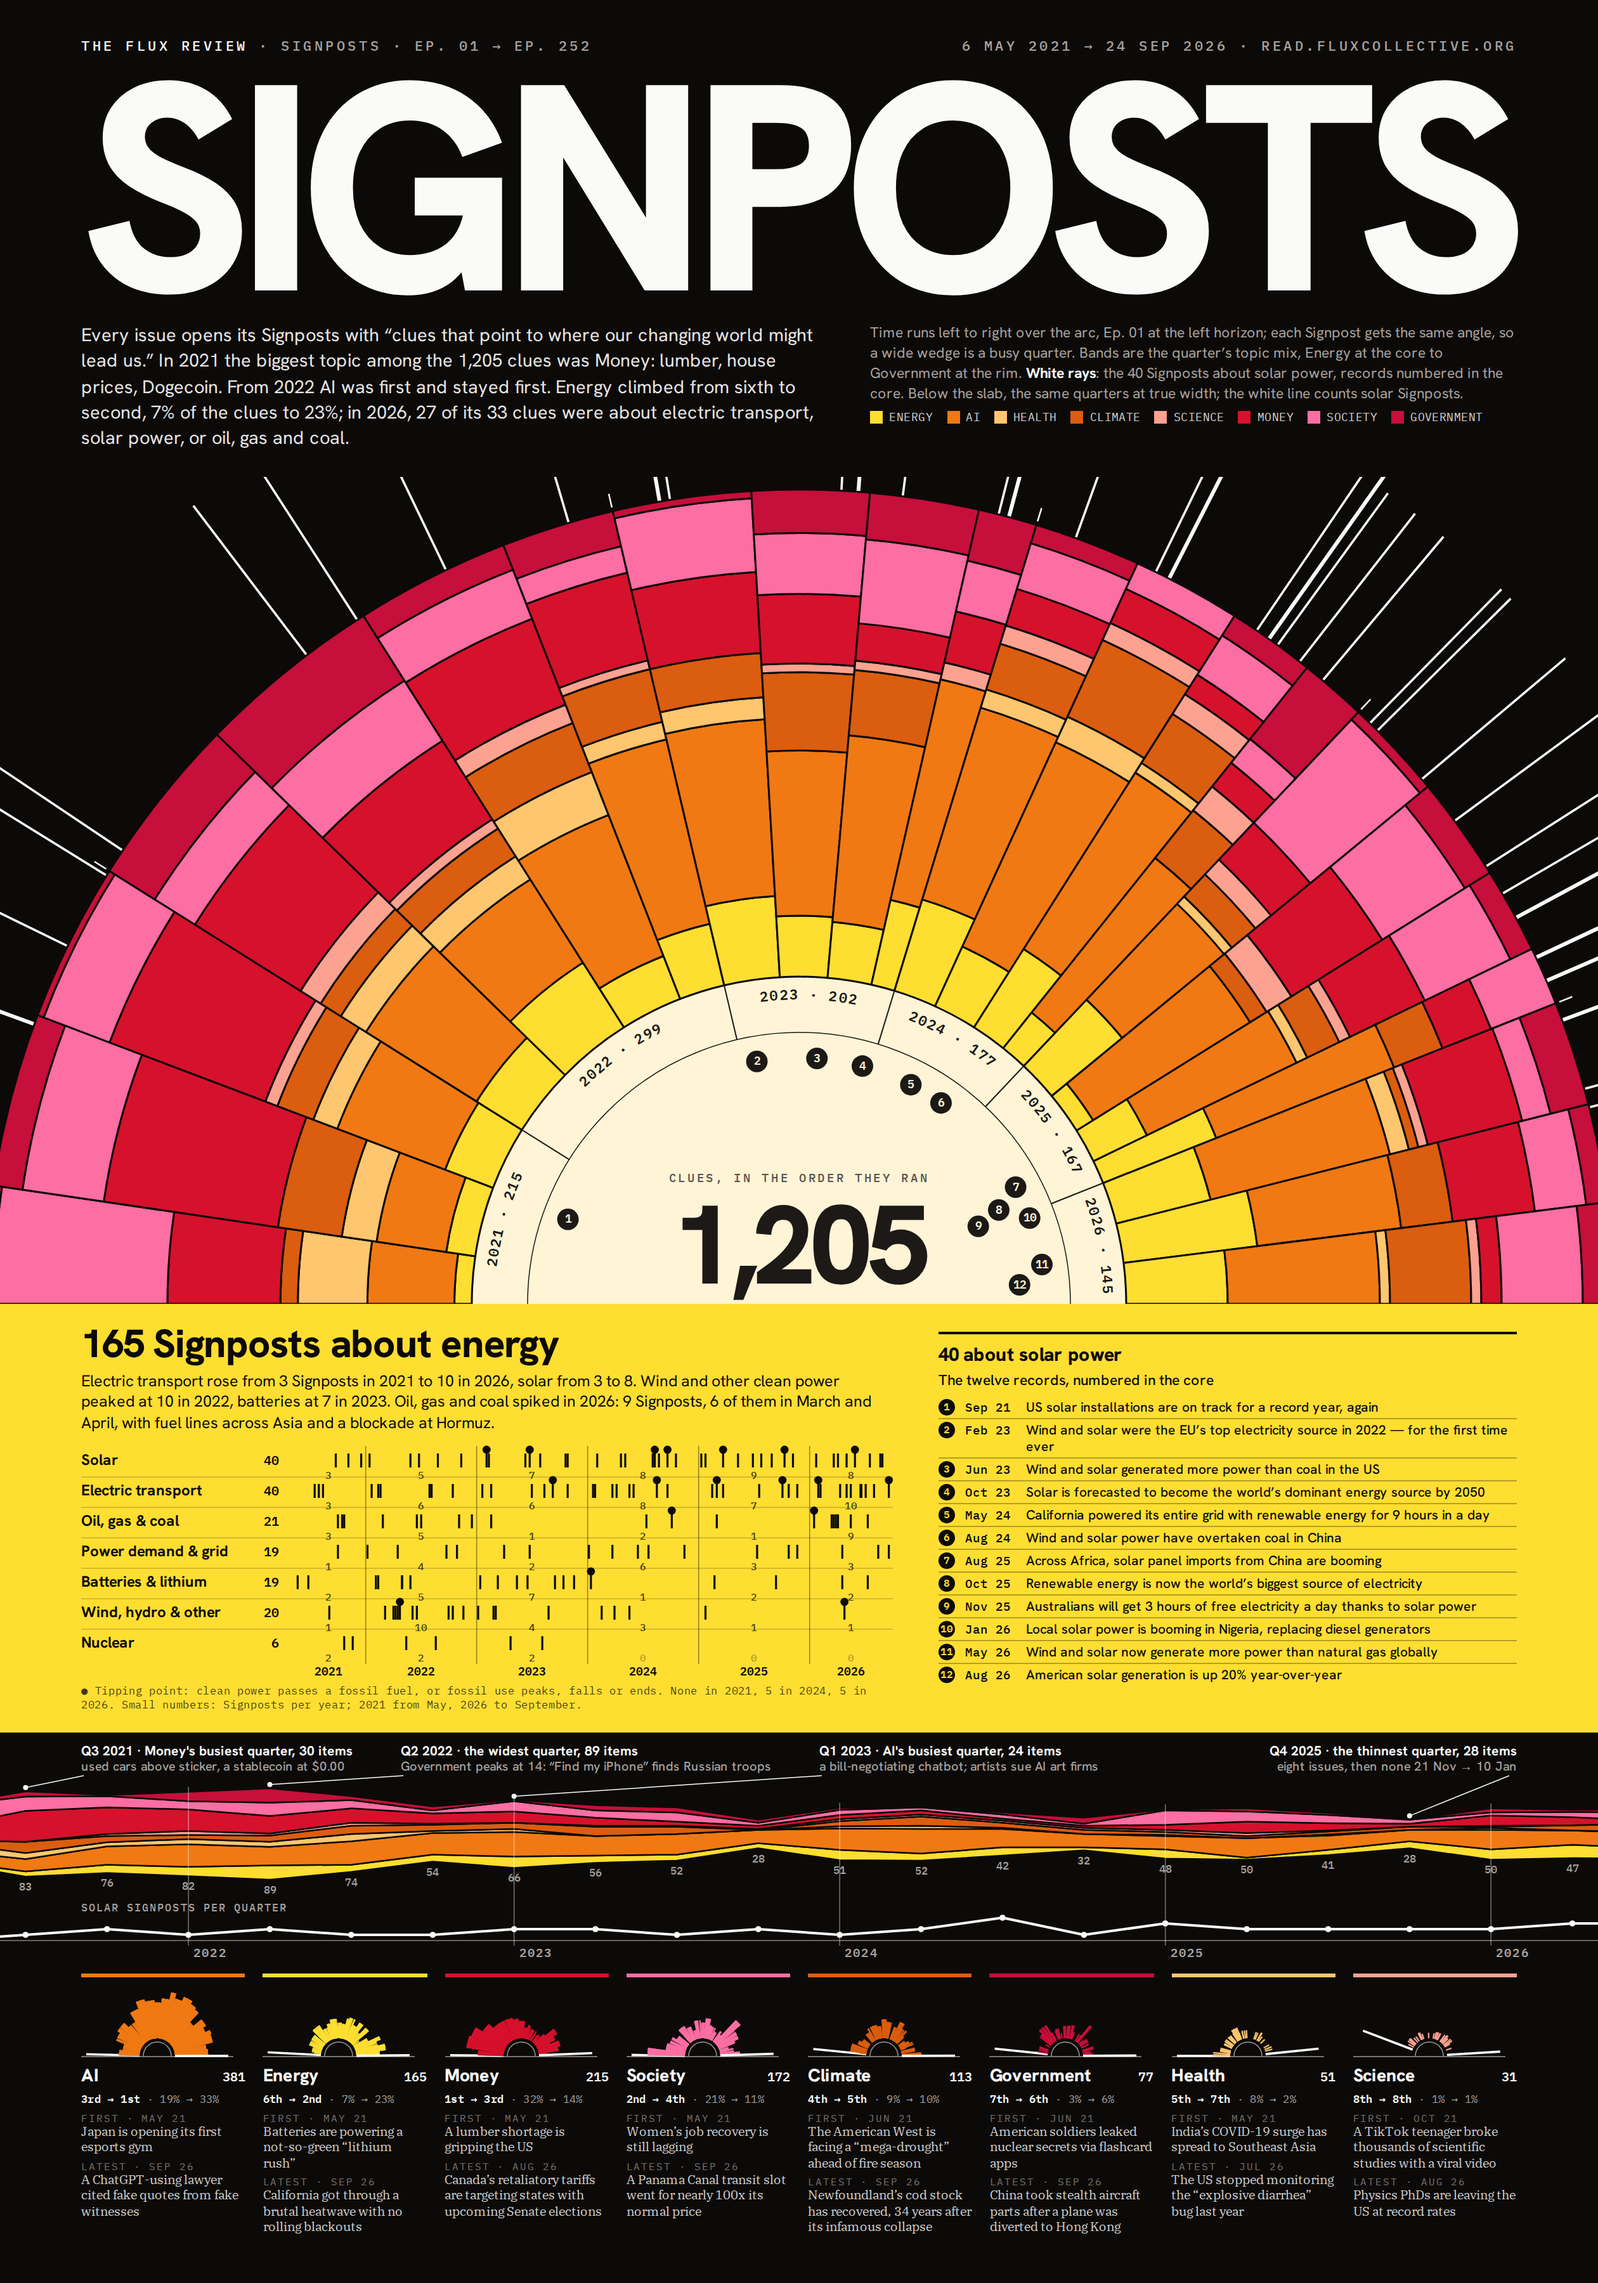
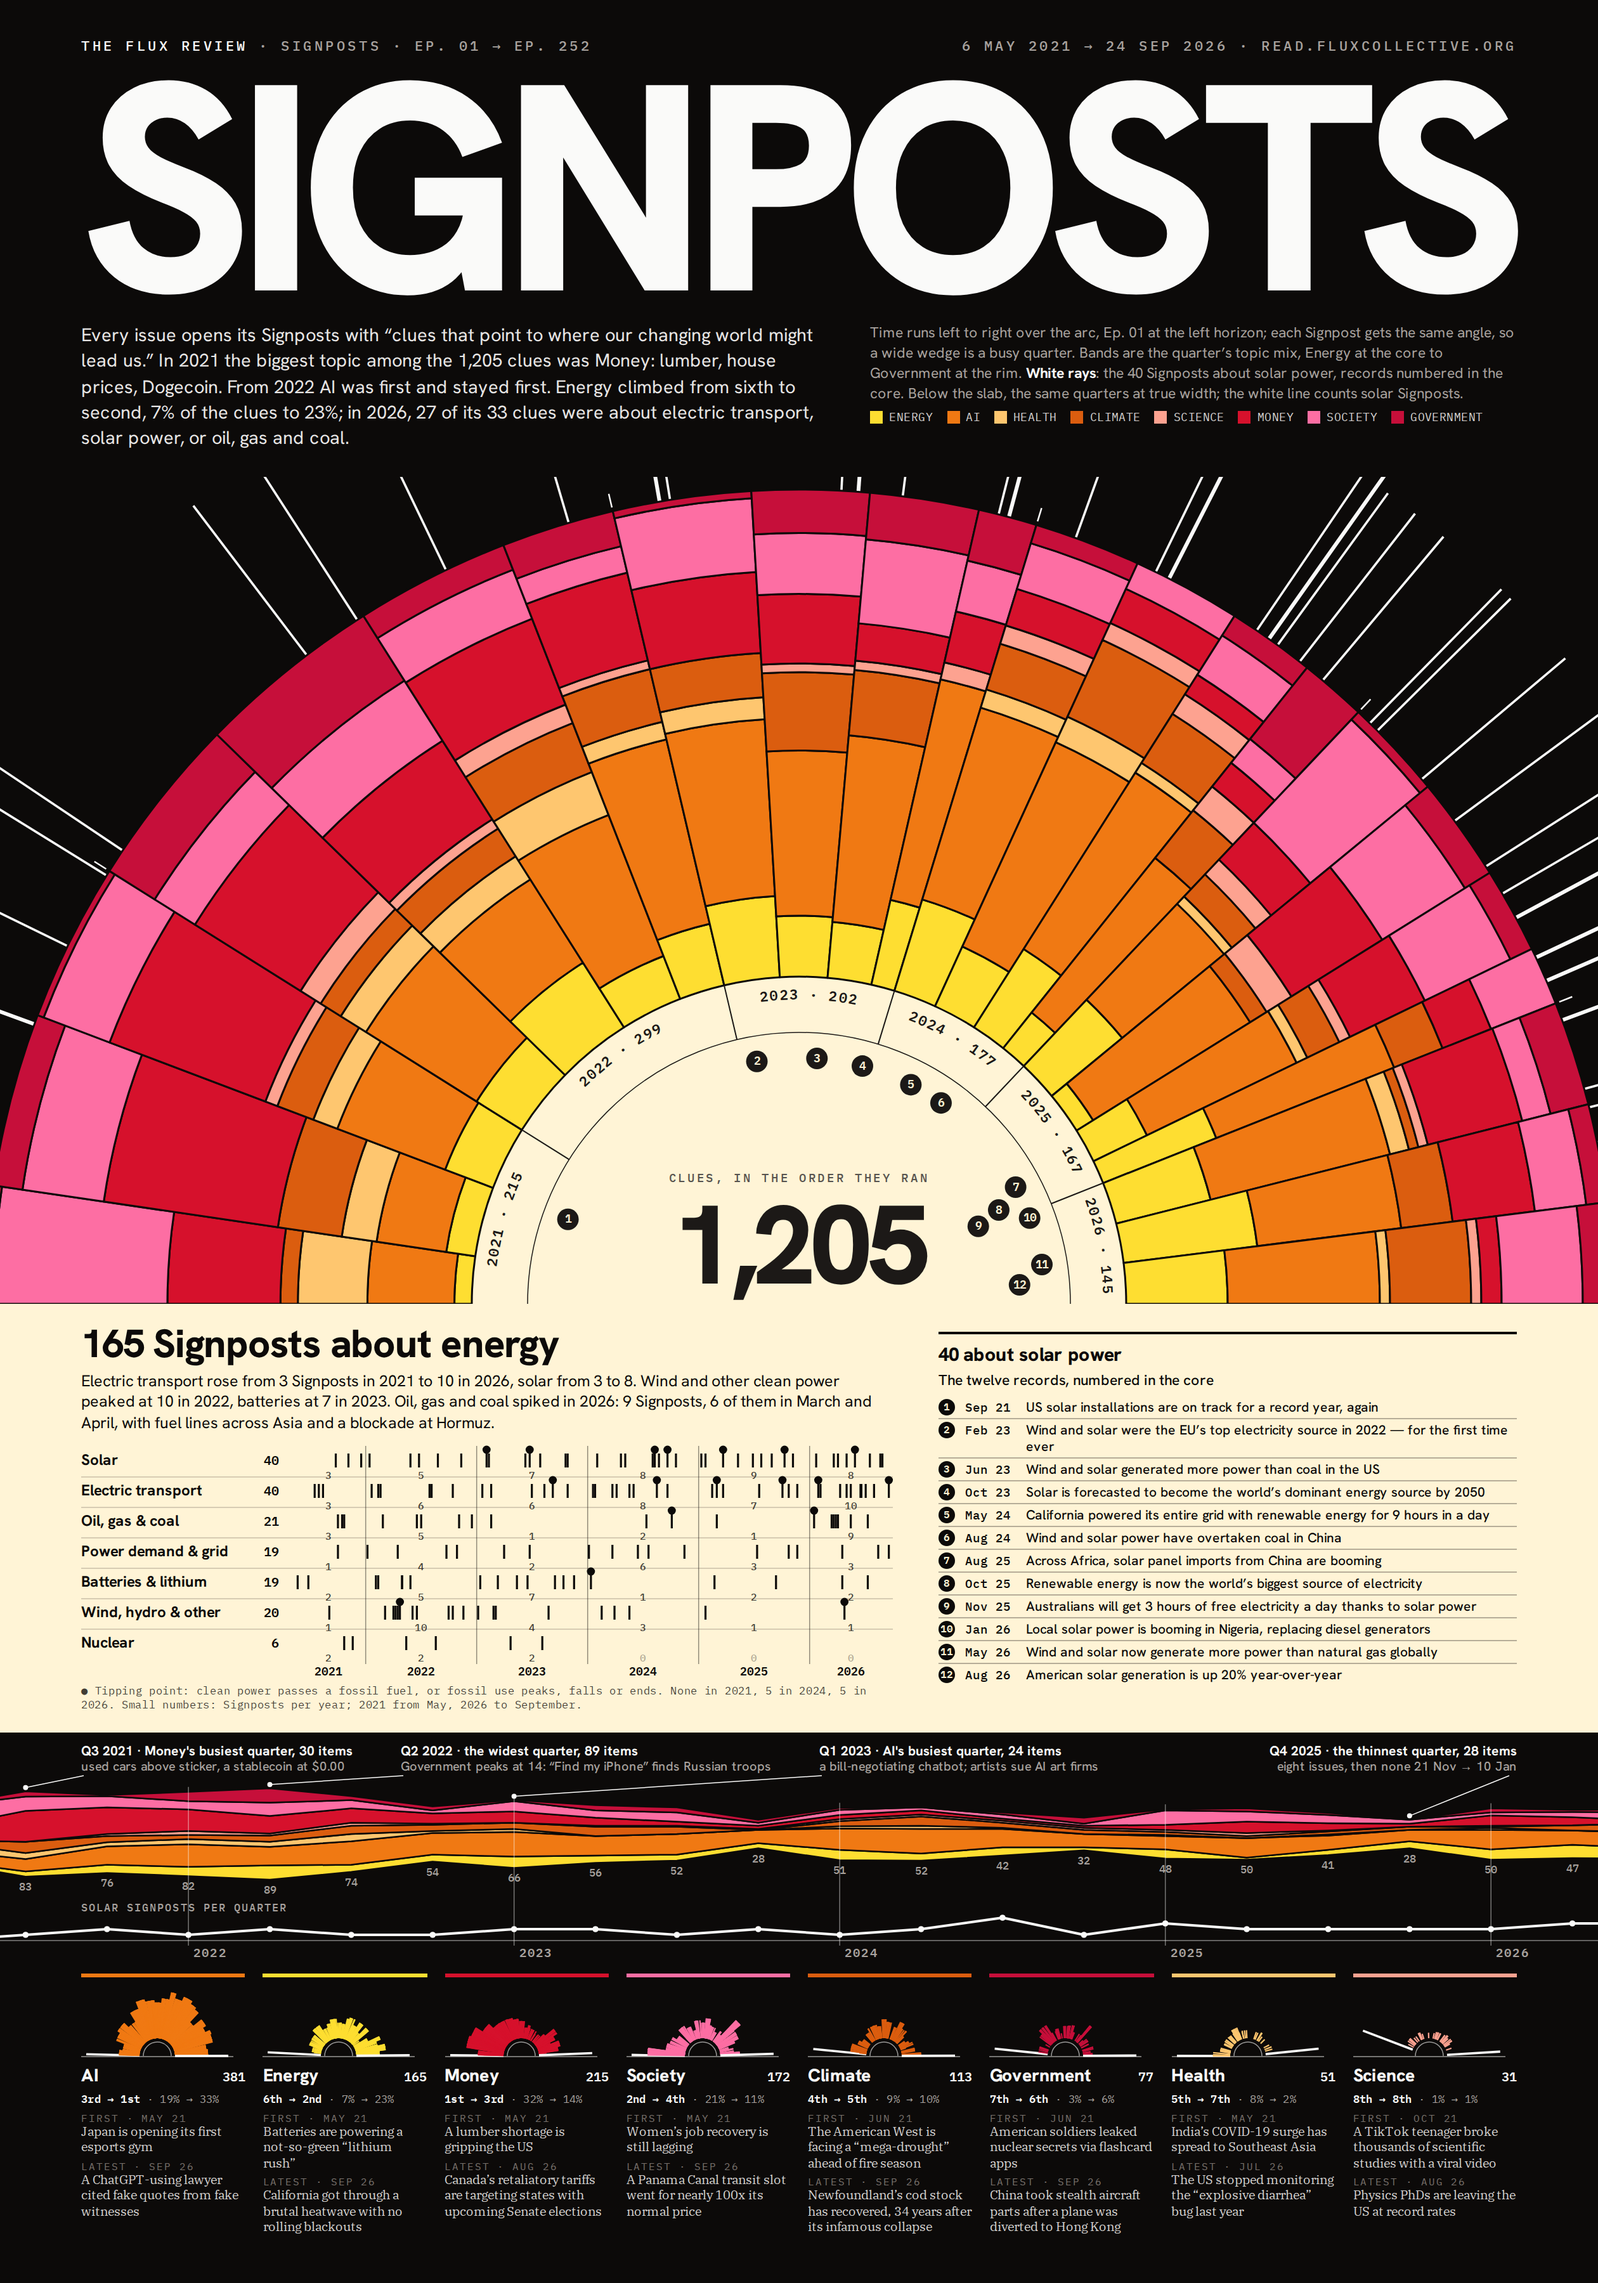
Signposts wheel: energy band in the core's pale colour
The 165 band takes the core's #fff4d6 instead of the Energy yellow, so
the sun's core and the ground below it read as one light. Record
numbers in the solar list switch to the same pale ink.

Claude-Session: https://claude.ai/code/session_016qoP1bbpv8VwZM3p1mXFmG

Changed region(s): [[0.0, 0.56, 1.0, 0.7778]]

diff --git a/posters/flux-signposts.html b/posters/flux-signposts.html
@@ -8,19 +8,20 @@
 <link href="https://fonts.googleapis.com/css2?family=Hanken+Grotesk:wght@400;500;700;800&family=IBM+Plex+Mono:wght@400;500;600&family=IBM+Plex+Serif:ital,wght@0,400;1,400&display=swap" rel="stylesheet">
 <!--
   Weltformat F4 (89.5 × 128 cm), rendered 1260 × 1800 CSS px.
-  Five full-width rows: the title; the sun; the energy slab; the Minard
+  Five full-width rows: the title; the sun; the energy band; the Minard
   strip; the small multiples.
   Lineage: Müller-Brockmann's concentric forms, used as the subject. The
-  1,205 Signposts are a sun rising off the yellow slab, edge to edge: time
+  1,205 Signposts are a sun rising off the pale energy band, edge to edge: time
   runs left to right over the arc, Ep. 01 at the left horizon, Ep. 252 at
   the right. The core is the sun's pale disc. The 40 Signposts about solar
-  power are long white rays into a black sky. The slab breaks the 165
+  power are long white rays into a black sky. The band, in the core's
+  pale colour so core and ground read as one light, breaks the 165
   Energy Signposts into seven kinds on a calendar axis. Below it the same
   22 quarters run at true width (after Minard's flow).
 
   Drama carriers: one dominant anchor (the sun, a third of the sheet,
   cut by both side edges); a title set to the full measure; hard
-  figure/ground (black sky, yellow slab, pale core); a graphic system
+  figure/ground (black sky against the pale core and band); a graphic system
   (rays and ticks); microtype (dial years, counts, dates).
 
   Colour has one job: topic, set roseate from the yellow hub to the
@@ -28,7 +29,7 @@
   Government). Validated on the black field in that stacking order:
   adjacent normal-vision ΔE ≥ 17.8, protan/deutan ΔE ≥ 15.5, chroma
   ≥ 0.10, every ink ≥ 3:1. Lightness steps up and down band to band so
-  neighbours separate within one warm family. The slab is the Energy ink.
+  neighbours separate within one warm family.
 
   Source ledger: every Signpost in The FLUX Review, Ep. 01 (6 May 2021) to
   Ep. 252 (24 Sep 2026), 1,205 items, each read and given one of eight
@@ -46,7 +47,7 @@
     --stone-800: #292524;
     --stone-900: #1c1917;
     --stone-950: #0c0a09;
-    --gold: #fede31;
+    --slab: #fff4d6;   /* the core's pale disc, carried into the energy band */
     --sans:  'Hanken Grotesk', 'Helvetica Neue', Arial, system-ui, sans-serif;
     --mono:  'IBM Plex Mono', ui-monospace, monospace;
     --serif: 'IBM Plex Serif', Georgia, serif;
@@ -72,8 +73,8 @@
   .key span { display: inline-flex; align-items: center; gap: 5px; }
   .key i { width: 10px; height: 10px; display: block; }
 
-  /* ── Row 3: the yellow slab — the energy transition, and the solar thread ── */
-  .gold { position: absolute; left: 0; right: 0; top: 1028px; height: 338px; background: var(--gold); color: var(--stone-950); z-index: 3;
+  /* ── Row 3: the energy band, in the core's colour — the energy transition, and the solar thread ── */
+  .gold { position: absolute; left: 0; right: 0; top: 1028px; height: 338px; background: var(--slab); color: var(--stone-950); z-index: 3;
           padding: 16px 64px 0; display: grid; grid-template-columns: 640px 1fr; column-gap: 36px; }
   .gold h2 { font-weight: 800; font-size: 31px; letter-spacing: -0.02em; line-height: 1; }
   .gold .lead { font-size: 12.5px; line-height: 1.3; margin: 6px 0 6px; }
@@ -85,7 +86,7 @@
   .gold li { display: grid; grid-template-columns: 17px 44px 1fr; column-gap: 4px; font-size: 10.5px; line-height: 13px; font-weight: 500;
              padding: 2px 0 2px; border-top: 1px solid rgba(12,10,9,0.3); align-items: baseline; }
   .gold li:first-child { border-top: 0; }
-  .gold li .no { background: var(--stone-950); color: var(--gold); border-radius: 50%; width: 13px; height: 13px; line-height: 13px; align-self: start;
+  .gold li .no { background: var(--stone-950); color: var(--slab); border-radius: 50%; width: 13px; height: 13px; line-height: 13px; align-self: start;
                  text-align: center; font-family: var(--mono); font-size: 8px; font-weight: 600; }
   .gold li .d { font-family: var(--mono); font-size: 9.5px; }
 
@@ -109,7 +110,7 @@
   <svg id="sun" viewBox="0 0 1260 1800"
        data-encoding="Signpost order → angle along the arc, left horizon to right (equal angle per item); quarter → wedge; topic share within quarter → radial band; solar item → long white ray; Minard strip: quarter → x, Signposts in the quarter → band width, solar per quarter → line"
        data-variable="1,205 Signposts, 22 quarters, 8 topics"
-       role="img" aria-label="A half-wheel of all 1,205 Signposts rising like a sun off a yellow slab, edge to edge, in order from May 2021 at the left to September 2026 at the right, as 22 quarter wedges stacked by topic in roseate colours, yellow Energy at the pale core to crimson Government at the rim. Energy grows from 7% in 2021 to 23% in 2026; AI from 19% to 33%; Health shrinks from 8% to 2%. 40 solar Signposts are long white rays into the black sky, twelve numbered in the core. Below the slab the same quarters run at true width, from 89 Signposts in Q2 2022 to 28 in Q4 2025, with a line counting solar Signposts per quarter."></svg>
+       role="img" aria-label="A half-wheel of all 1,205 Signposts rising like a sun off a pale band, edge to edge, in order from May 2021 at the left to September 2026 at the right, as 22 quarter wedges stacked by topic in roseate colours, yellow Energy at the pale core to crimson Government at the rim. Energy grows from 7% in 2021 to 23% in 2026; AI from 19% to 33%; Health shrinks from 8% to 2%. 40 solar Signposts are long white rays into the black sky, twelve numbered in the core. Below the band the same quarters run at true width, from 89 Signposts in Q2 2022 to 28 in Q4 2025, with a line counting solar Signposts per quarter."></svg>
 
   <div class="head micro"><span><b>The FLUX Review</b> · Signposts · Ep. 01 → Ep. 252</span><span>6 May 2021 → 24 Sep 2026 · read.fluxcollective.org</span></div>
   <h1 id="title" data-critical="title">Signposts</h1>
